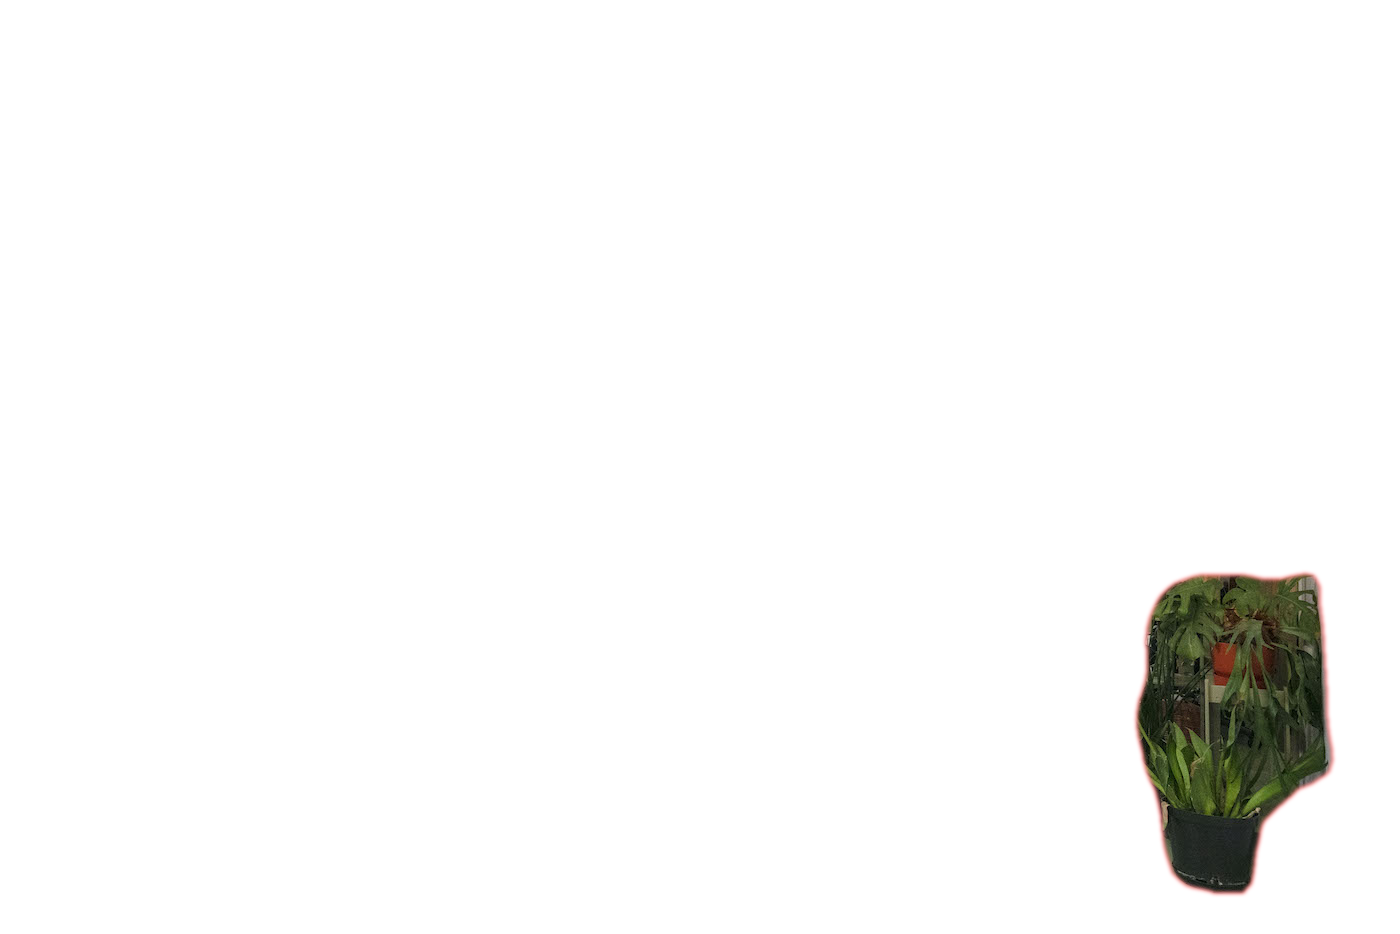
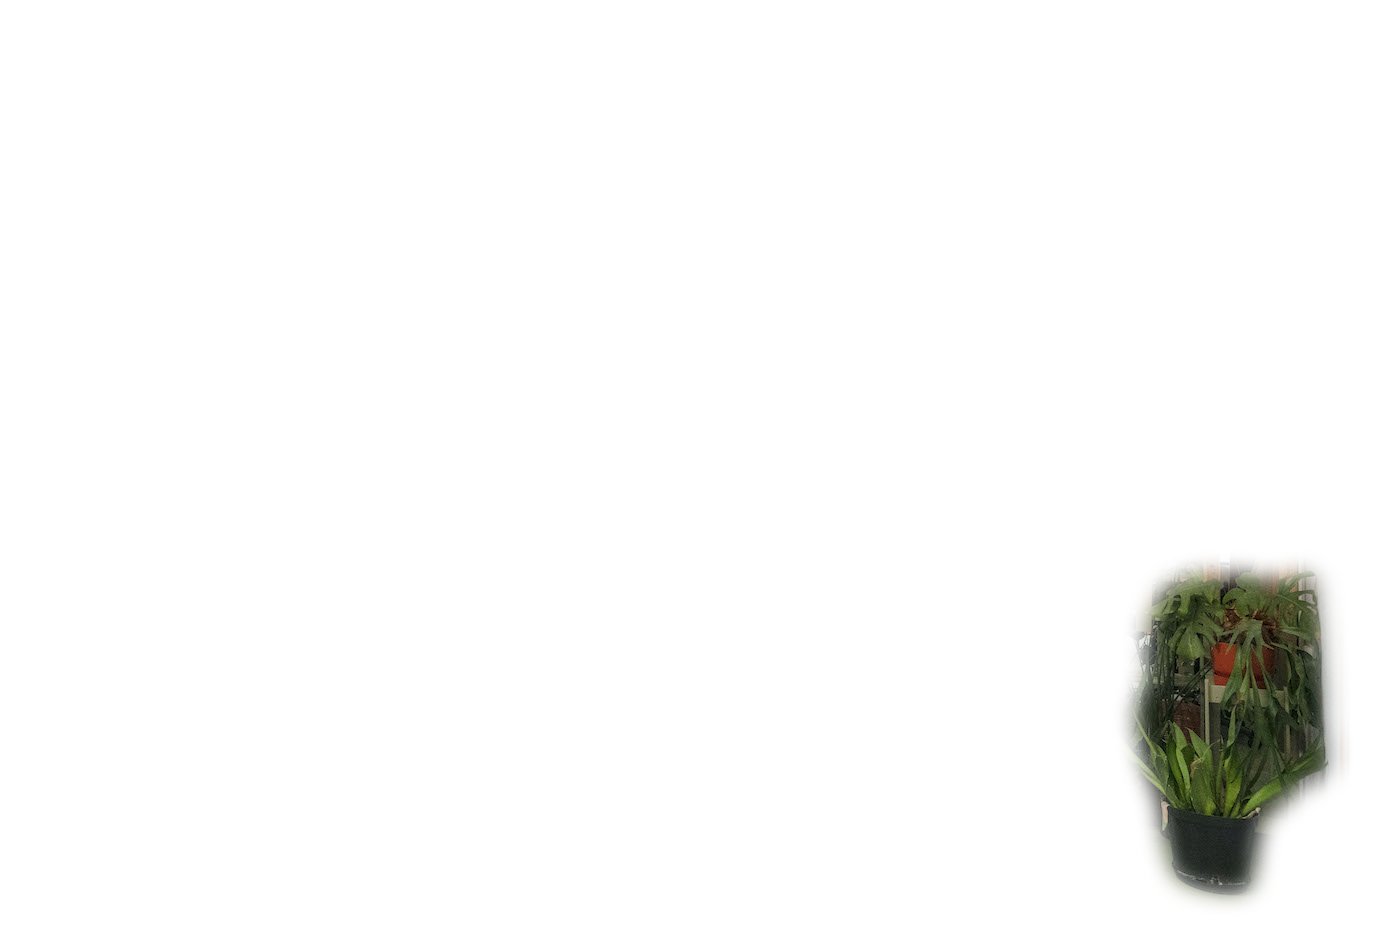
Remove halo effect from layers

Changed region(s): [[0.7986, 0.5899, 0.9829, 0.9936]]

diff --git a/imagery/index.html b/imagery/index.html
@@ -18,7 +18,7 @@
 		}
 		.container img:first-of-type {
 			position: relative;
-			filter: blur(2px);
+			filter: blur(1px);
 			transform: none;
 		}
 		.container:hover img:first-of-type {

diff --git a/imagery/image.py b/imagery/image.py
@@ -16,9 +16,10 @@ def extract_object(image_name, image_np, mask_np, suffix = ''):
 
 	image = Image.fromarray(np.uint8(image_np)).convert('RGB')
 
-	background = Image.new('RGBA', image.size, (255, 0, 0, 0))
+	background = image.copy()
+	background.putalpha(0)
 
-	mask = Image.fromarray(np.uint8(mask_np)).convert('L').point(lambda x: 0 if x<128 else 255, '1').convert('RGB').filter(ImageFilter.GaussianBlur).convert('L')
+	mask = Image.fromarray(np.uint8(mask_np)).convert('L').point(lambda x: 0 if x<128 else 255, '1').convert('RGB').filter(ImageFilter.GaussianBlur(10)).convert('L')
 	result = Image.composite(image, background, mask).convert('RGBA')
 	result.save('playground/object' + suffix + '.png', 'PNG')
 
